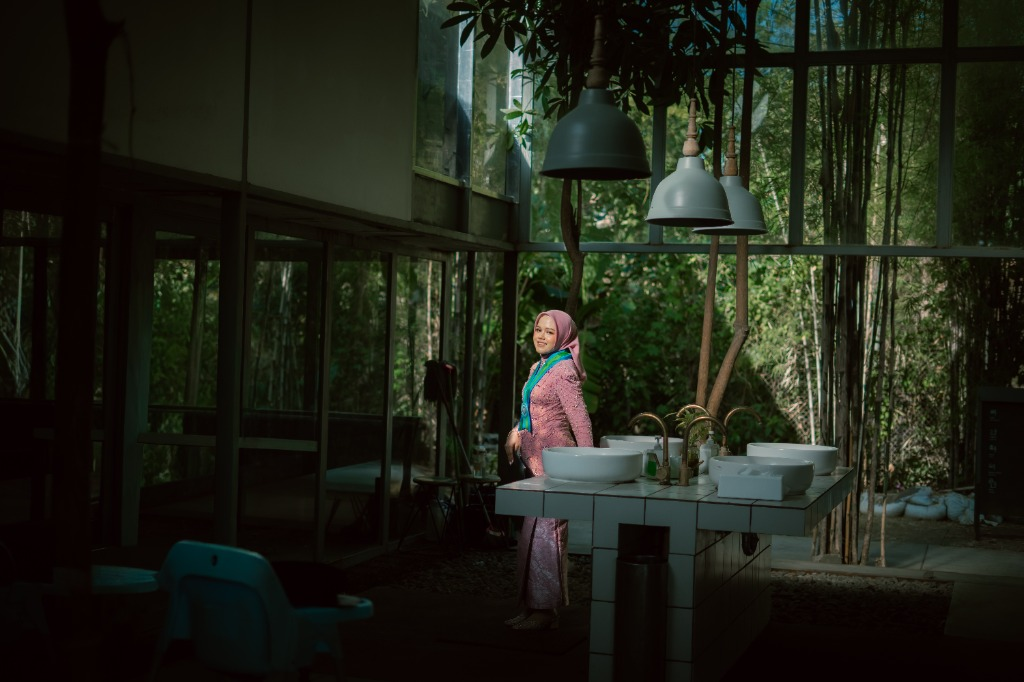
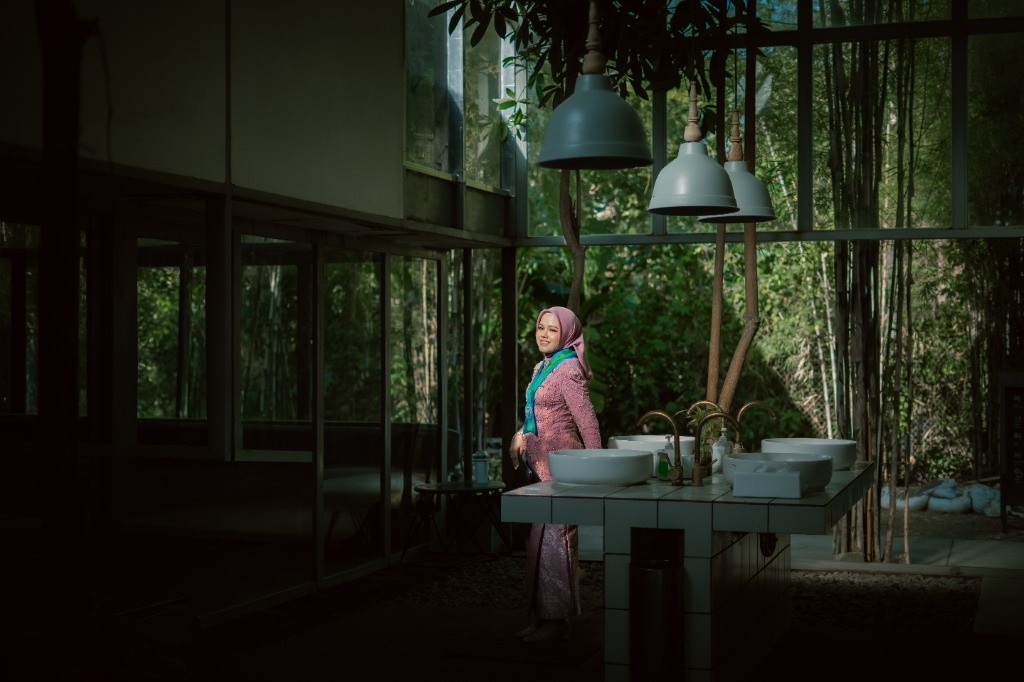
fix: update hero image and disable nextjs optimization to prevent quality loss

diff --git a/frontend/app/page.tsx b/frontend/app/page.tsx
@@ -37,7 +37,7 @@ export default async function HomePage() {
       <main>
         <section className="relative flex min-h-screen items-center justify-center bg-[var(--bg)] pb-12 pt-32 sm:pt-40 text-center">
           <div className="absolute inset-0 z-0">
-            <Image src="/bg-main.jpg" alt="Background" fill className="object-cover" priority />
+            <Image src="/bg-main.jpg" alt="Background" fill className="object-cover" priority unoptimized />
             <div className="absolute inset-0 bg-black/40"></div>
             <div className="absolute bottom-0 left-0 right-0 h-40 bg-gradient-to-t from-[var(--bg)] to-transparent"></div>
           </div>
